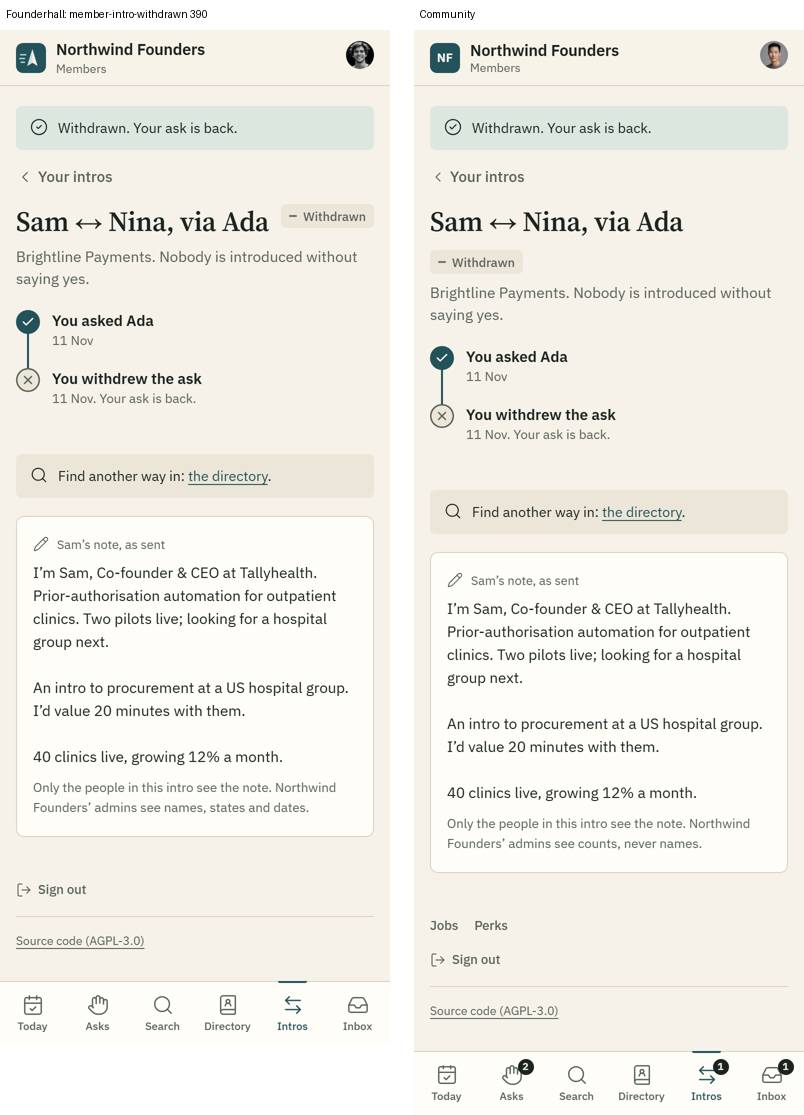
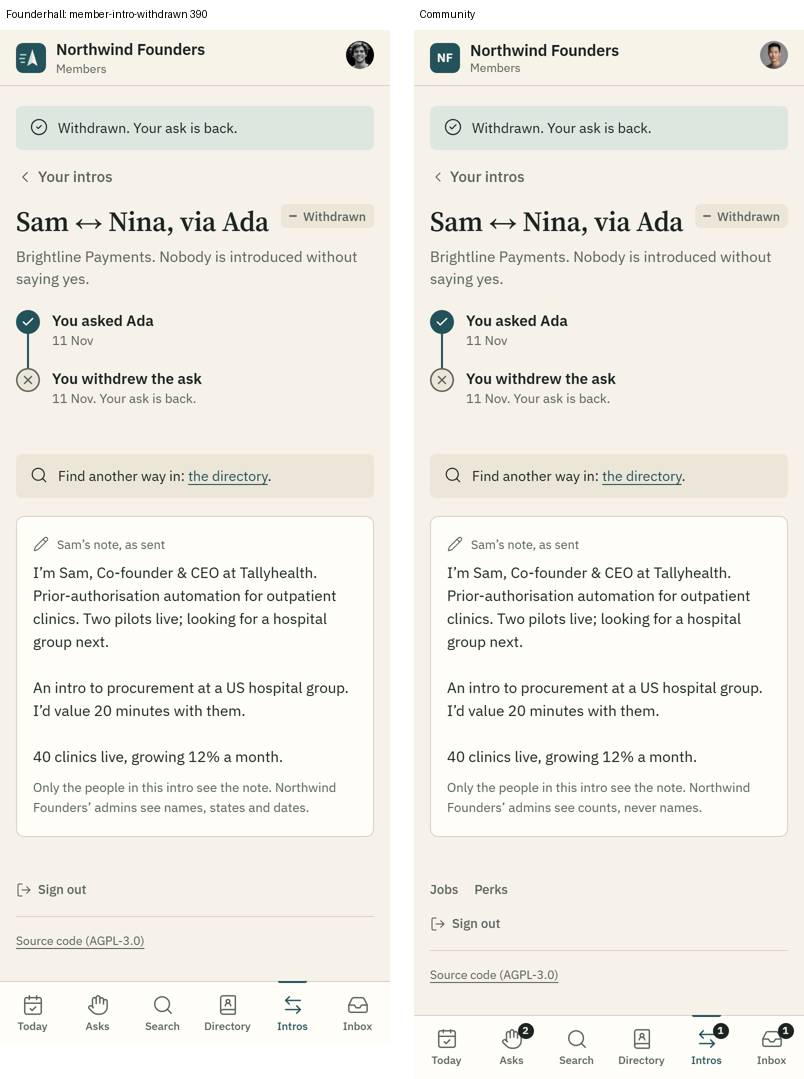
Repair round 2: a stale tab on the person's page shows Nothing to do; the phone title keeps its pill on the line

diff --git a/src/modules/intros/components/intros-ui.test.ts b/src/modules/intros/components/intros-ui.test.ts
@@ -11,6 +11,7 @@ import { API_ROUTES } from "@/platform/http/routes";
 
 import { IntroPage } from "./intro-page";
 import { IntrosList } from "./intros-list";
+import { TargetLinkQuestion } from "./public-intro";
 
 const router = vi.hoisted(() => ({ replace: vi.fn(), refresh: vi.fn(), push: vi.fn() }));
 vi.mock("next/navigation", () => ({ useRouter: () => router, useSearchParams: () => new URLSearchParams(), usePathname: () => "/intros/x" }));
@@ -146,6 +147,19 @@ describe("the intro screens (Founderhall's)", () => {
 
       expect(screen.getByText("You said: helpful")).toBeTruthy();
       expect(screen.getByText("Introduced · helpful")).toBeTruthy();
+    });
+  });
+
+  describe("the person's page", () => {
+    it("says there's nothing to do when the answer was already given in another tab", async () => {
+      vi.stubGlobal("fetch", vi.fn(async () => new Response(JSON.stringify({ answer: "no_thanks", isRepeat: true }), { headers: { "Content-Type": "application/json" } })));
+      const facts = { askerName: "Sam Lee", connectorName: "Marcus Webb", targetName: "Rosa Lindqvist", note: NOTE, joinsByEmail: true, asksForEmail: false };
+      render(createElement(TargetLinkQuestion, { token: "t".repeat(43), community: COMMUNITY, facts, initialChoice: "yes", optOutHref: "/intro/optout/x" }));
+
+      fireEvent.click(screen.getByRole("button", { name: "Send my answer" }));
+
+      expect(await screen.findByText("Nothing to do")).toBeTruthy();
+      expect(screen.queryByText("You’re introduced")).toBeNull();
     });
   });
 

diff --git a/src/modules/intros/components/public-intro.tsx b/src/modules/intros/components/public-intro.tsx
@@ -110,14 +110,19 @@ export function TargetLinkQuestion({ token, community, facts, initialChoice, opt
         ]}
         submit={async ({ choice }) => {
           const isYes = choice === TARGET_CHOICES.yes;
-          await answerConsentRequest({
+          const saved = await answerConsentRequest({
             token,
             answer: isYes ? CONSENT_ANSWERS.yes : CONSENT_ANSWERS.noThanks,
             ...(isYes && facts.asksForEmail && email.trim() ? { targetEmail: email.trim() } : {}),
           });
+          // Answered already (another tab, another link): say there's nothing to do, never the choice just clicked.
+          if (saved.isRepeat) {
+            setDone(NOTHING_TO_DO);
+            return;
+          }
           const isJoinedByEmail = facts.joinsByEmail || (facts.asksForEmail && email.trim() !== "");
           setDone(
-            !isYes
+            saved.answer !== CONSENT_ANSWERS.yes
               ? { title: "Thanks for answering", text: "Nobody is told why, and nothing more is sent about this.", hasConsentLine: true }
               : isJoinedByEmail
                 ? { title: "You’re introduced", text: `Check your email: one message to you and ${askerFirst}, with ${connectorFirst} copied. Reply to it to write to them.`, hasConsentLine: true }

diff --git a/src/modules/intros/components/intro-page.tsx b/src/modules/intros/components/intro-page.tsx
@@ -115,7 +115,9 @@ export function IntroPage(props: IntroPageProps) {
       <FlashOnArrival />
       <BackLink href={ROUTES.intros}>Your intros</BackLink>
       <div className="fh-pagehead">
-        <div className="flex flex-wrap items-start justify-between gap-3">
+        {/* Founderhall's row (gap 12). The column gap is a hair under, so a title and pill that fill the phone row exactly
+            stay on one line as on Founderhall instead of wrapping on a sub-pixel. */}
+        <div className="flex flex-wrap items-start justify-between gap-x-[11.9px] gap-y-3">
           <h1 className="fh-h1">{readIntroTitle(intro)}</h1>
           <Pill tone={pill.tone}>{pill.label}</Pill>
         </div>

diff --git a/.ai/features/fh-intros/reports/pairs.md b/.ai/features/fh-intros/reports/pairs.md
@@ -10,7 +10,7 @@ Each acceptance shot of area 3, retaken from Community's demo (same made-up peop
 | member-intros-empty | allowance count (Sam has a posted ask this week; Founderhall's shot is a new member): community data |
 | member-intro-tracker-asked, -asked-confirm | admins' line: "counts, never names" (rule pending, `ADMINS_SEE_INTRO_NAMES`) |
 | member-intro-tracker-introduced, -outcome-saved | admins' line (same) |
-| member-intro-withdrawn | admins' line; "or search" after the directory link (Search is on in Community's demo) |
+| member-intro-withdrawn | admins' line |
 | member-intro-detail-1, -answer-in-app | admins' line; Community-only "Report this note" and "Message Marcus" under the note |
 | member-intro-detail-2 | admins' line |
 | public-intro-decide-connector, -error, -yes-done | none in the card |
